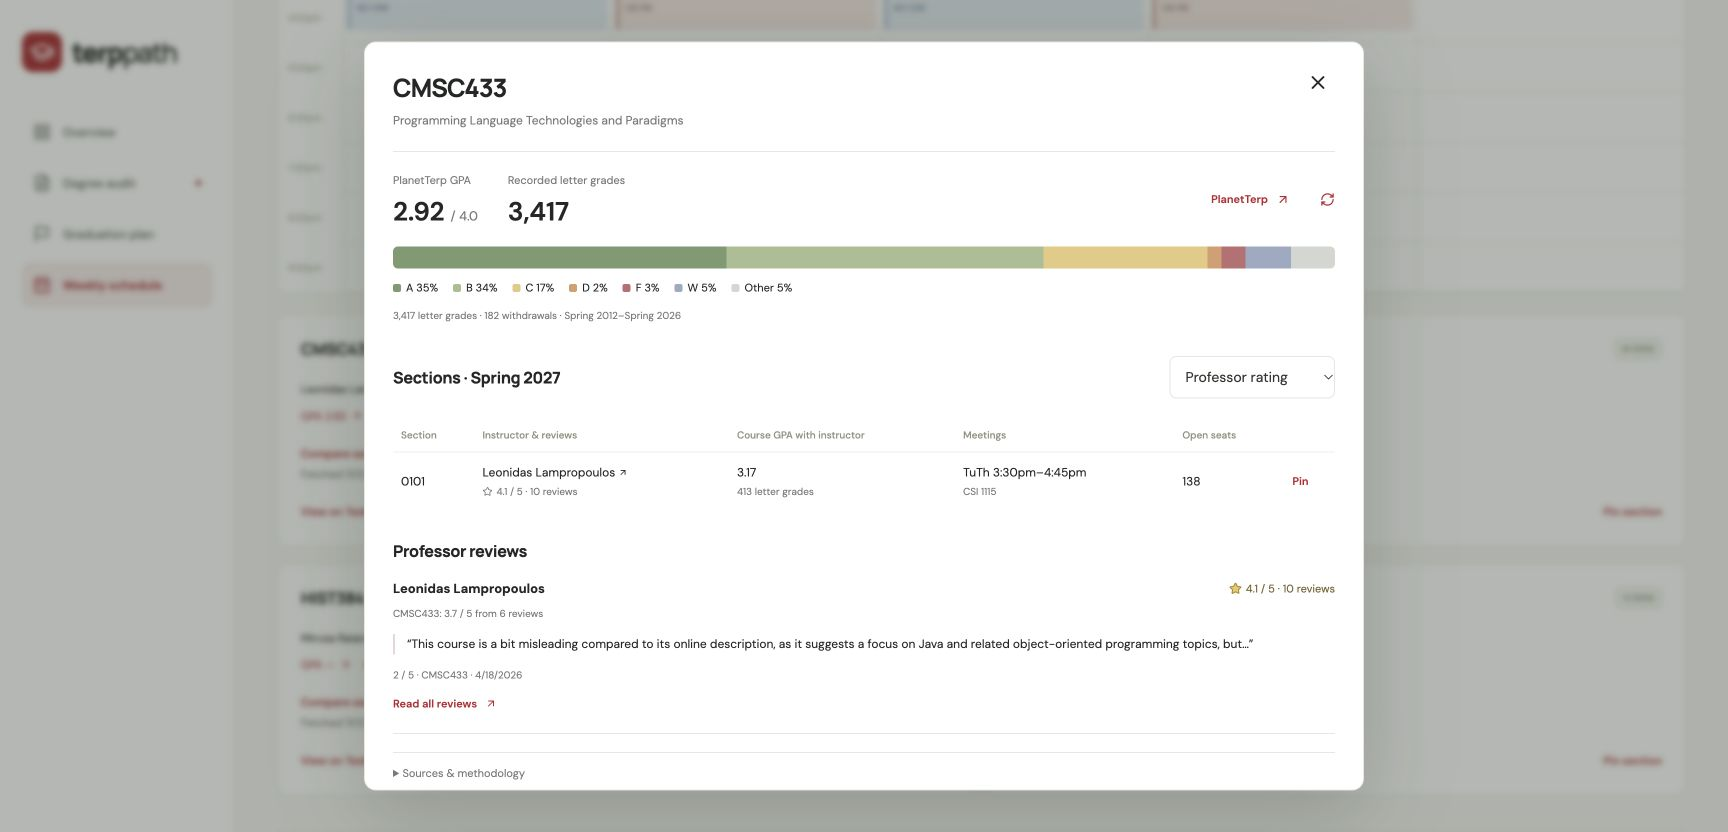
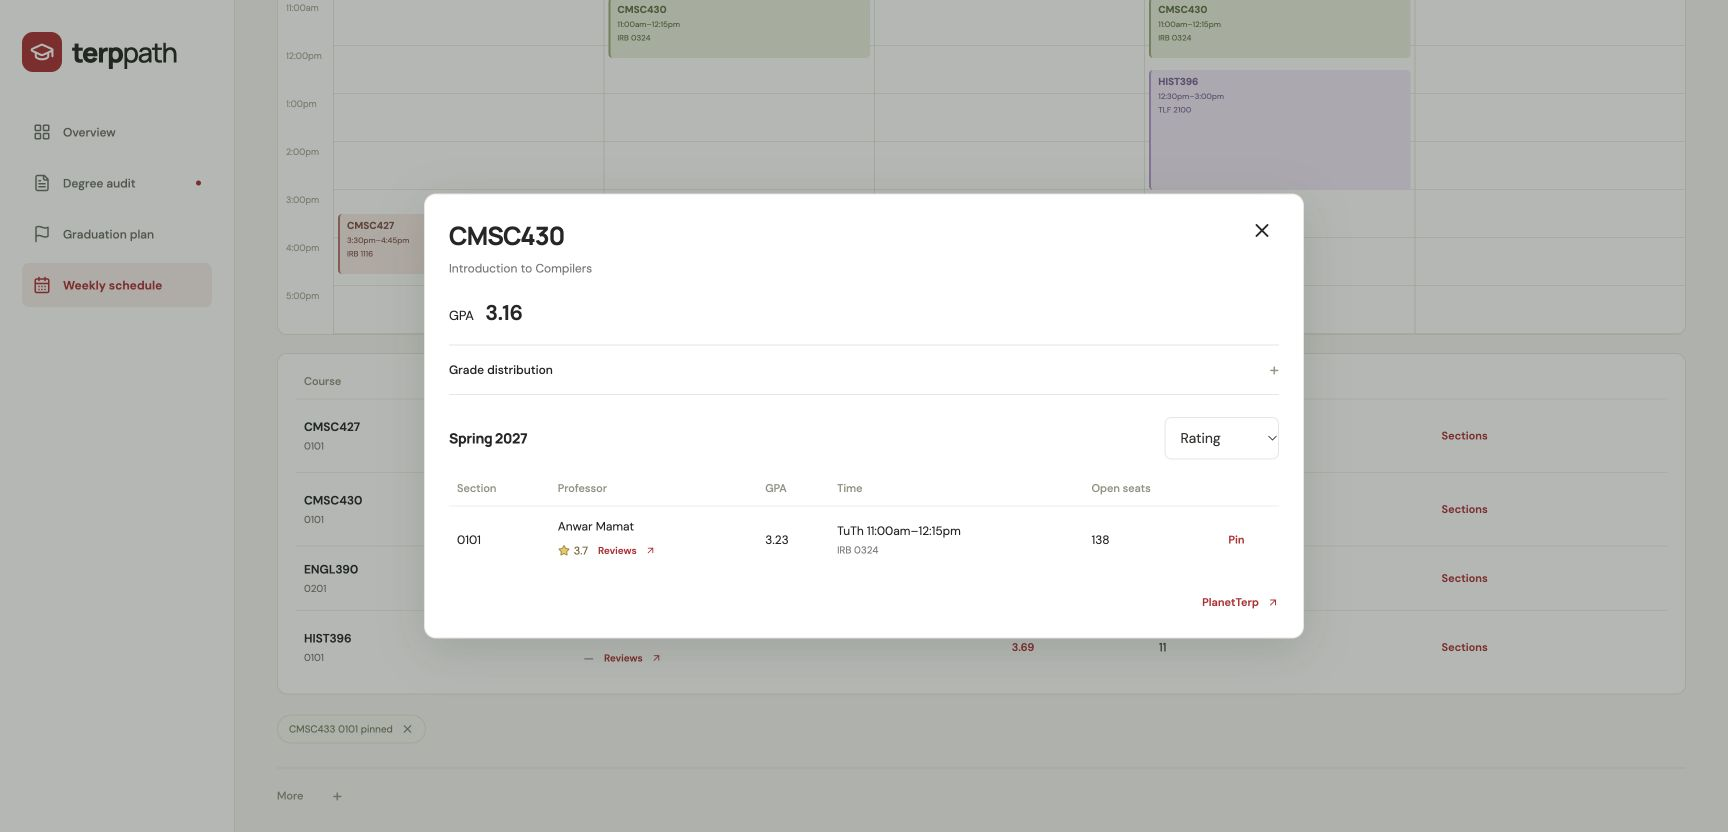
Update interface documentation and previews

diff --git a/README.md b/README.md
@@ -37,7 +37,7 @@ Open http://127.0.0.1:8011. The API serves `dist/` and supports the frontend's `
 - Gen Ed discovery, interests, course pins/exclusions, course moves with academic revalidation, and section pins.
 - Joint course-and-section search with linked lecture/lab/discussion meetings, blocked times, open-seat filters, and alternative weekly calendars.
 - IndexedDB saves, validated JSON backups including draft plans, printable views, and data deletion. Restored plans must be regenerated before use.
-- PlanetTerp professor ratings and review excerpts, course and instructor-specific historical GPAs, grade distributions, sample counts, and source links.
+- Professor ratings and review links, course and instructor-specific historical GPAs, and expandable grade distributions from PlanetTerp.
 - A schedule comparison table sortable by ratings, GPA, campus days, or gaps, plus course/section comparisons with pinning for regeneration.
 
 ## Pilot boundaries
@@ -80,7 +80,7 @@ See [implementation notes](docs/ARCHITECTURE.md) and [milestones](docs/MILESTONE
 
 ## Course and professor comparisons
 
-Click a course's **GPA** link or **Compare sections & reviews** to see grade history, current sections, professor ratings, a recent review excerpt, and links to the full PlanetTerp reviews. Pin an eligible section and regenerate to apply it. The weekly schedule page compares every generated plan/schedule option; comparisons reorder existing valid options and never change academic constraints.
+Click a course or **Sections** to compare current sections, GPA, and professor ratings. **Reviews** opens the professor's PlanetTerp page; grade distributions are available in an expandable panel. Pin an eligible section and regenerate to apply it. Open **Compare schedules** on the weekly schedule page to compare generated options. Comparisons reorder existing valid options and never change academic constraints.
 
 Public data comes from the [PlanetTerp API](https://docs.planetterp.com/). Only course identifiers and instructor names are sent to PlanetTerp. Lookups run separately from generation, serialize external requests with a pause, cache successful results for 24 hours and missing matches for one hour, and back off on rate limits/outages. Cached data remains available with a stale flag. Missing ratings and unavailable grade records stay null.
 

diff --git a/docs/ARCHITECTURE.md b/docs/ARCHITECTURE.md
@@ -22,7 +22,7 @@ A result of `infeasible` applies to the loaded candidate set, supported constrai
 
 `POST /insights` accepts `{courses, instructors}` with bounded public course codes and names; unknown fields are rejected. It returns historical grade summaries, professor scores/counts, short review excerpts, sources, timestamps, availability states, and staleness. This endpoint is independent of generation, so provider outages do not prevent academic planning.
 
-The frontend queues small enrichment batches after generation and when browsing courses. A source adapter serializes/rate-limits HTTP cache misses, caches public JSON in a separate SQLite table, and reuses stale data on failure. Professor names are preserved separately when Testudo supplies multiple instructors. Historical professor-course grade rows are matched only by normalized exact names. Reviews are shown as bounded excerpts with links, never synthesized into workload claims.
+The frontend queues small enrichment batches after generation and when browsing courses. A source adapter serializes/rate-limits HTTP cache misses, caches public JSON in a separate SQLite table, and reuses stale data on failure. Professor names are preserved separately when Testudo supplies multiple instructors. Historical professor-course grade rows are matched only by normalized exact names. The UI shows compact GPA values and professor ratings with links to full reviews; returned excerpts are not rendered. Grade distributions, schedule comparisons, and less frequently edited audit fields are collapsed by default.
 
 Schedule comparison metrics derive days/gaps from all section meetings and show the number of courses/instructors represented in each average. Course browsing is paginated to bound provider requests. A native dialog provides keyboard dismissal and section pinning; applying a pin still requires regeneration through the existing academic/section constraints. Ratings are intentionally not added to hard solver constraints.
 

diff --git a/docs/MILESTONES.md b/docs/MILESTONES.md
@@ -11,7 +11,7 @@
 ## Validation completed
 
 - One supplied 10-page audit: completed/in-progress totals and remaining Gen Ed counts reconcile.
-- 35 backend tests and 12 frontend tests pass; production build and formatting/lint checks pass.
+- 35 backend tests and 13 frontend tests pass; production build and formatting/lint checks pass.
 - Live generation with the supplied audit returns three conditional plans with compatible weekly schedules in approximately eight seconds with warm public-data caches.
 - Browser review: overview, synthetic-audit review, generation, weekly calendars, schedule sorting, course browsing, grade/review dialogs, keyboard dismissal, and section pinning.
 
